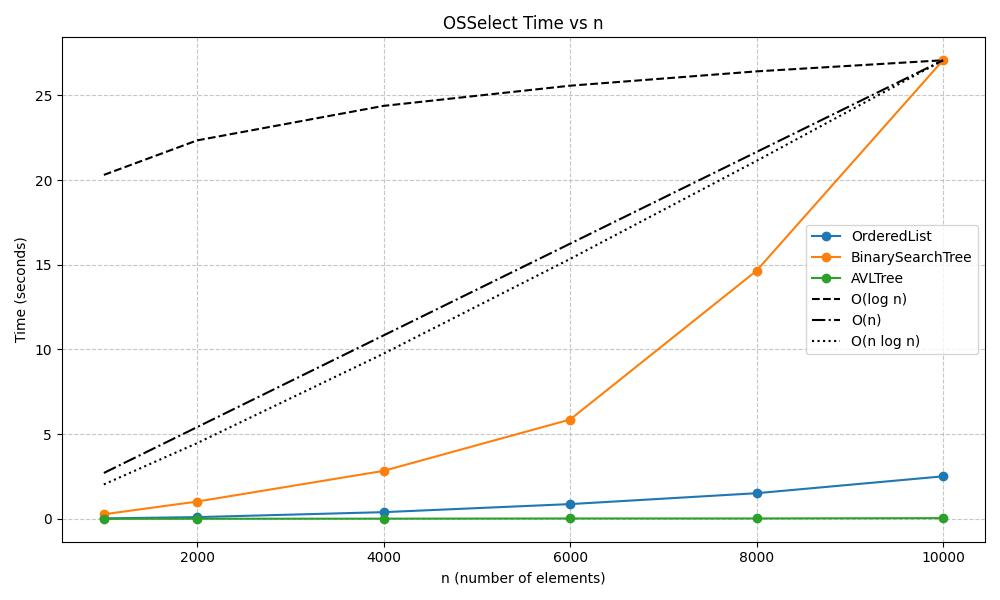
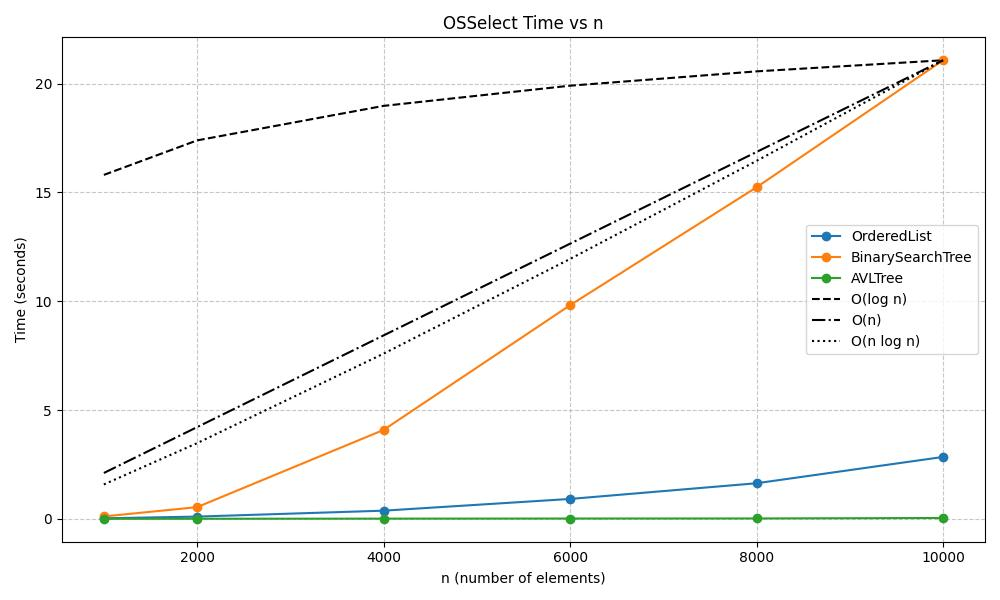
BinaryTree Fixes

diff --git a/DataStructure/BinarySearchTree.py b/DataStructure/BinarySearchTree.py
@@ -94,7 +94,7 @@ class BinarySearchTree(OrderStatisticStructure):
             Returns:
                 int: Number of nodes in the subtree.
         """
-        if not node:
+        if node is None:
             return 0
         return 1 + self._subtree_size(node.getLeft()) + self._subtree_size(node.getRight())
 
@@ -134,16 +134,20 @@ class BinarySearchTree(OrderStatisticStructure):
             :param node:
         """
 
-        rank = (self._subtree_size(node.getLeft())) + 1
-        node_t = node
+        rank = 0
+        x = self.__root
+        key = node.getValue()
 
-        while node_t != self.__root:
-            parent = node_t.getParent()
-            if node_t == parent.getRight():
-                left_size = self._subtree_size(parent.getLeft())
-                rank += left_size + 1
-            z = parent
+        while x is not None:
+            if key < x.getValue():
+                x = x.getLeft()
+            elif key > x.getValue():
+                rank += 1 + self._subtree_size(x.getLeft())
+                x = x.getRight()
+            else:
+                rank += self._subtree_size(x.getLeft())
+                break
 
-        return rank
+        return rank + 1
 
 

diff --git a/main.py b/main.py
@@ -42,7 +42,7 @@ def get_list_memory_usage(head):
 
 if __name__ == '__main__':
     TRIALS_PER_N = 0
-    N_VALUES = [1000, 2000, 4000, 6000, 8000, 10000]
+    N_VALUES = [1000, 2000, 4000, 6000, 8000, 10000, 14000, 18000, 20000, 24000, 26000, 28000, 30000]
 
     osselect_results = {}
     osrank_results = {}
